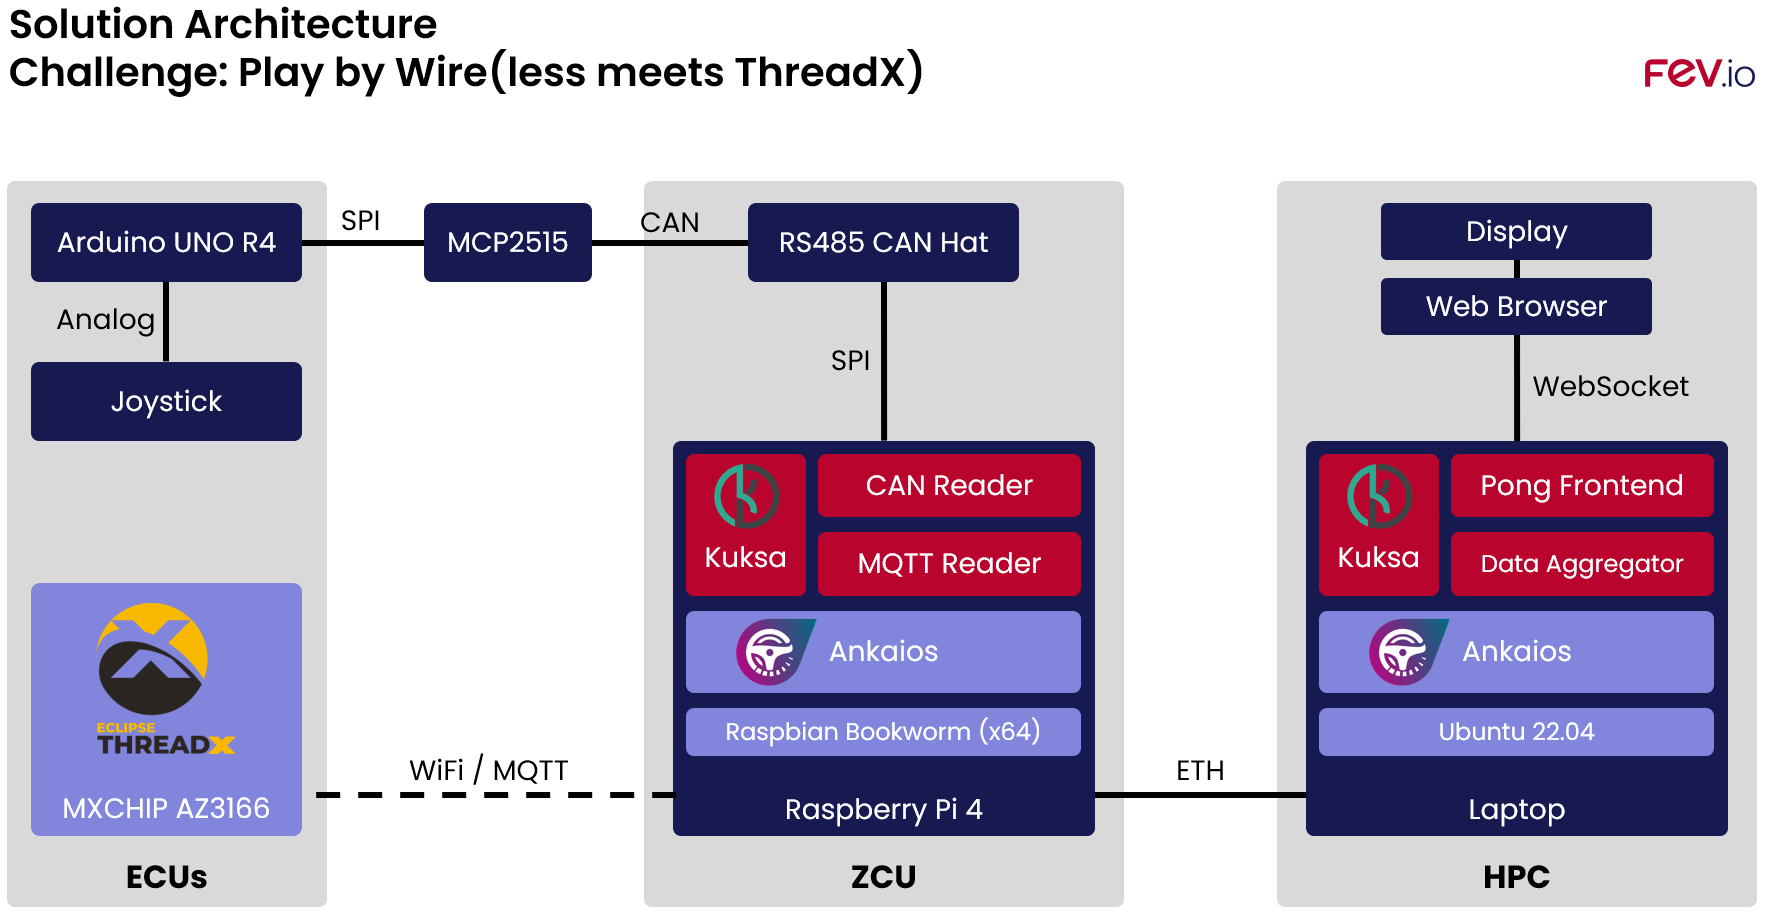
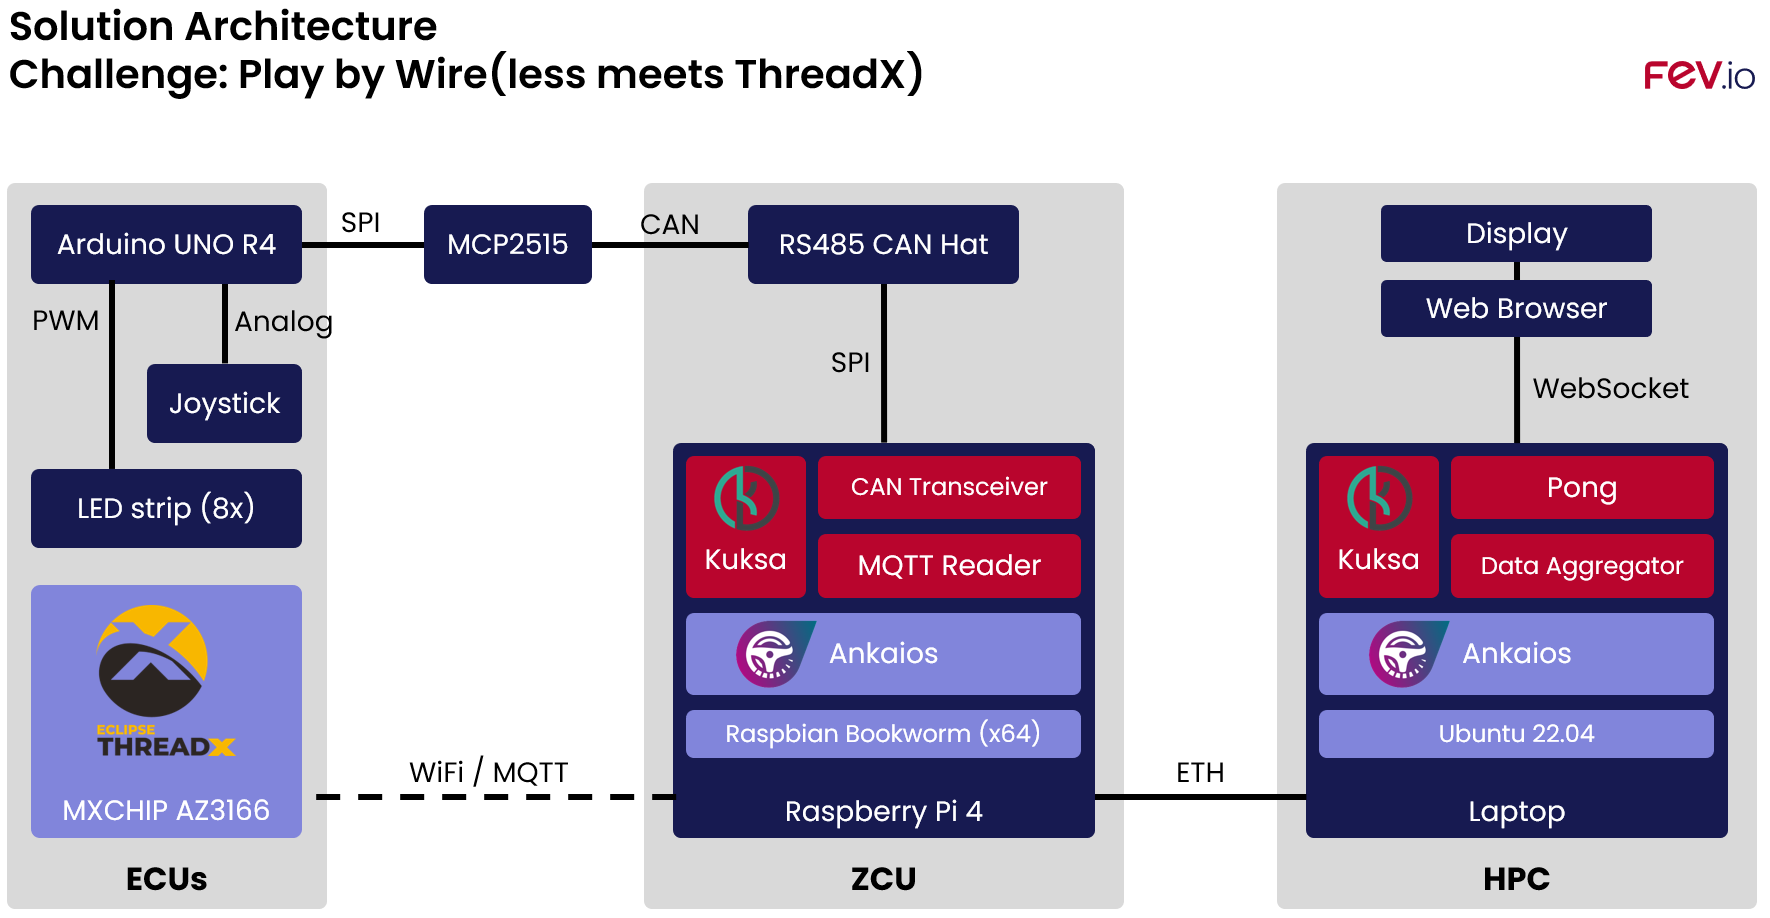
Update documentation: Rename can_reader to can_transceiver

diff --git a/rpi4/README.md b/rpi4/README.md
@@ -33,14 +33,14 @@ sudo systemctl start ank-agent
 sudo reboot
 ```
 
-## Build can_reader image
+## Build can_transceiver image
 ```
 sudo su
-cd can_reader
-podman build . -t can_reader
+cd can_transceiver
+podman build . -t can_transceiver
 ```
 
-Note that the `can_reader` will use the entry for `Vehicle.Cabin.Infotainment.Navigation.Volume` to send integer values 0 and 100 via Kuksa.
+Note that the `can_transceiver` will use the entry for `Vehicle.Cabin.Infotainment.Navigation.Volume` to send integer values 0 and 100 via Kuksa.
 
 
 ## Build mqtt_reader image
